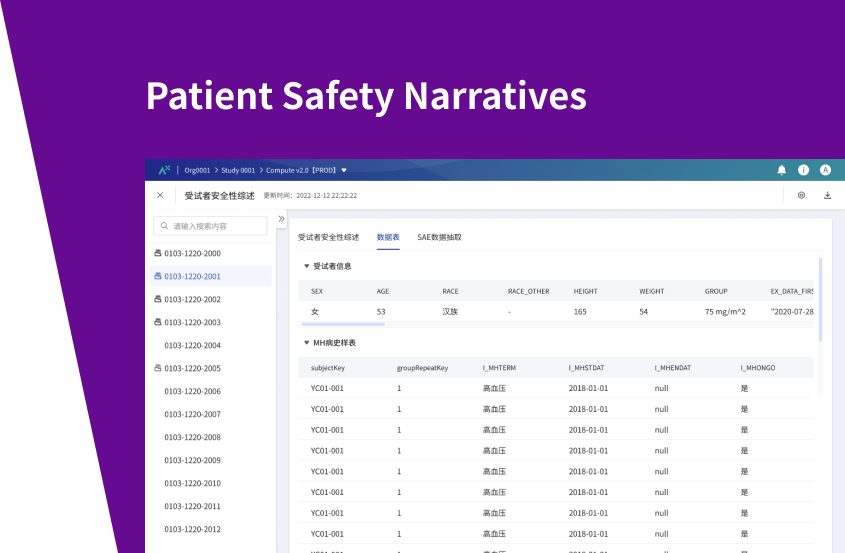
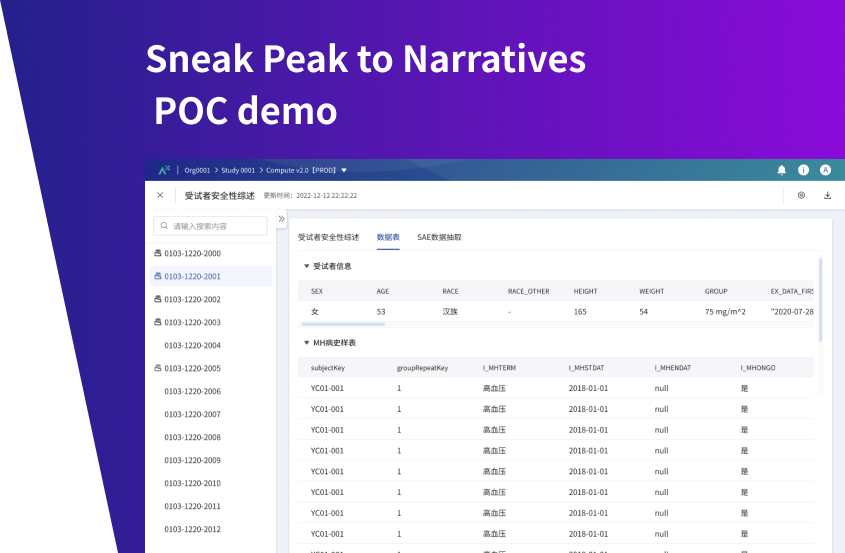
update

diff --git a/project_POC.html b/project_POC.html
@@ -309,7 +309,7 @@
         <div class="col-12 col-md-5 mt-4 mt-md-0 my-md-auto">
           <span class="badge-2 rounded-pill" style="background-color:#F4EDEE!important;">Product</span>
           <span class="badge-2 rounded-pill" style="background-color:#D5EDFF!important;">Rapid Prototype</span>
-          <h3 style="margin-top: 16px;">Patient Safety Narratives</h3>
+          <h3 style="margin-top: 16px;">Spinning the wheel of product growth by Design & Insight - Sneak Peak to Narratives POC demo</h3>
           <p class="lead">
             2022.12 - 2023.11<br />
             Researcher & Designer<br />
@@ -341,8 +341,8 @@
         <div class="col-12 mt-4 mt-md-0 my-md-auto">
           <div>
             <div class="titlenumber">01</div>
-            <div class="sectiontitle">What's Patient Safety Narratives</div>
-            <div class="sectiontitle-eng">Patient Safety Narratives Brief intro</div>
+            <div class="sectiontitle">What's Spinning the wheel of product growth by Design & Insight - Sneak Peak to Narratives POC demo</div>
+            <div class="sectiontitle-eng">Spinning the wheel of product growth by Design & Insight - Sneak Peak to Narratives POC demo Brief intro</div>
           </div>
           <p class="lead">
             In clinical trials, "Patient Safety Narratives" are comprehensive and structured descriptions of adverse events and safety-related information pertaining to participants in the study. These narratives play a crucial role in conveying the context, details, and clinical significance of adverse events or safety findings to regulatory authorities, ethics committees, and other stakeholders involved in the trial.
